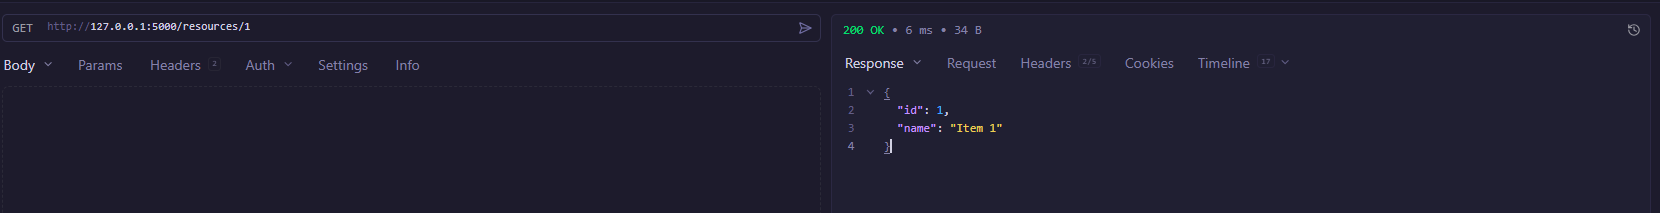
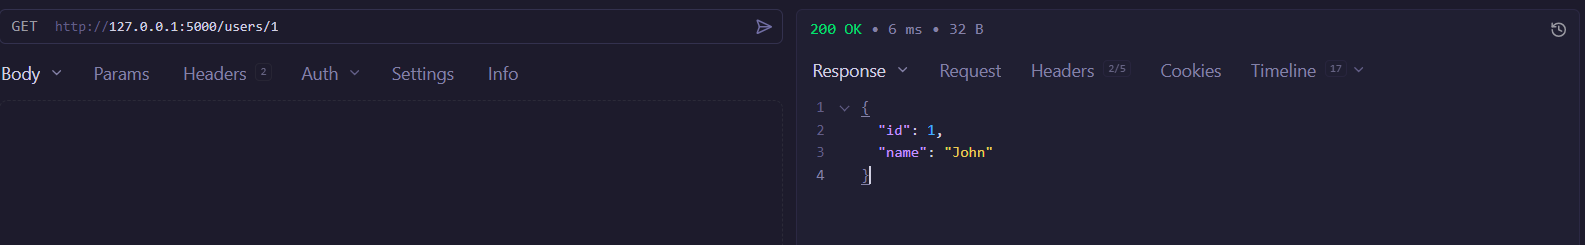
Lab2 - W3 (fixed)

diff --git a/Week03/Lab02/app.py b/Week03/Lab02/app.py
@@ -1,63 +1,31 @@
-from flask import Flask, jsonify, request
-from werkzeug.exceptions import HTTPException
+from flask import Flask, jsonify
+from error import ProblemError, register_error_handlers
 
 app = Flask(__name__)
 
-class ProblemError(Exception):
-    def __init__(self, status, title, detail=None, type="about:blank"):
-        self.status = status
-        self.title = title
-        self.detail = detail
-        self.type = type
+register_error_handlers(app)
 
-@app.errorhandler(ProblemError)
-def handle_problem_error(e):
-    data = {
-        "type": e.type,
-        "title": e.title,
-        "status": e.status,
-        "detail": e.detail,
-        "instance": request.path
-    }
-    return jsonify(data), e.status, {"Content-Type": "application/problem+json"}
+USERS = {
+    1: {"id": 1, "name": "John"},
+    2: {"id": 2, "name": "Alice"},
+    3: {"id": 3, "name": "Bob"}
+}
 
-@app.errorhandler(HTTPException)
-def handle_http_error(e):
-    data = {
-        "type": "about:blank",
-        "title": e.name,
-        "status": e.code,
-        "detail": e.description,
-        "instance": request.path
-    }
-    return jsonify(data), e.code, {"Content-Type": "application/problem+json"}
-
-@app.errorhandler(Exception)
-def handle_system_error(e):
-    print("Lỗi Server:", e)
-    data = {
-        "type": "about:blank",
-        "title": "Internal Server Error",
-        "status": 500,
-        "detail": "Đã xảy ra lỗi hệ thống.",
-        "instance": request.path
-    }
-    return jsonify(data), 500, {"Content-Type": "application/problem+json"}
-
-
-@app.route("/resources/<int:id>")
-def get_resource(id):
-    if id != 1:
+@app.get("/users/<int:id>")
+def get_user(id):
+    if id not in USERS:
         raise ProblemError(
             status=404,
-            title="Resource Not Found",
-            detail=f"Không tìm thấy resource với id = {id}"
+            title="User Not Found",
+            type_path="user-not-found",
+            resource_id = id
         )
-    return jsonify({"id": 1, "name": "Item 1"})
+    return jsonify(USERS[id])
 
-@app.route("/test-500")
-def test_500():
-    return 1 / 0
+
+@app.get("/test-500")
+def trigger_500():
+    return 1 / 0  # ZeroDivisionError
 
 
 if __name__ == "__main__":

diff --git a/Week03/Lab02/error.py b/Week03/Lab02/error.py
@@ -1,0 +1,57 @@
+import logging
+from flask import jsonify, request
+from werkzeug.exceptions import HTTPException
+
+class ProblemError(Exception):
+    def __init__(self, status, title, detail=None, type_path="about:blank"):
+        super().__init__(detail or title)
+        self.status = status
+        self.title = title
+        self.detail = detail
+        self.type_path = type_path
+
+
+def make_problem_response(status, title, detail=None, type_path="about:blank"):
+    payload = {
+        "type": type_path,
+        "title": title,
+        "status": status,
+        "detail": detail,
+        "instance": request.path
+    }
+    response = jsonify(payload)
+
+    response.headers["Content-Type"] = "application/problem+json"
+    return response, status
+
+
+def register_error_handlers(app):
+
+    @app.errorhandler(ProblemError)
+    def handle_problem_error(e):
+        return make_problem_response(
+            status=e.status,
+            title=e.title,
+            detail=e.detail,
+            type_path=e.type_path
+        )
+
+    @app.errorhandler(HTTPException)
+    def handle_http_exception(e):
+        return make_problem_response(
+            status=e.code,
+            title=e.name,
+            detail=e.description,
+            type_path="about:blank"
+        )
+
+    @app.errorhandler(Exception)
+    def handle_unhandled_exception(e):
+        app.logger.error("Unhandled Exception caught:", exc_info=e)
+
+        return make_problem_response(
+            status=500,
+            title="Internal Server Error",
+            detail="An unexpected error occurred on the server.",
+            type_path="about:blank"
+        )

diff --git a/Week03/Lab02/README.md b/Week03/Lab02/README.md
@@ -1,10 +1,10 @@
 # Kiểm thử
 
 ### Lấy đúng
-![alt text](image-1.png)
+![alt text](image.png)
 
 ### Lỗi 404
-![alt text](image.png)
+![alt text](image-1.png)
 
 ### Lỗi 500
 ![alt text](image-2.png)
